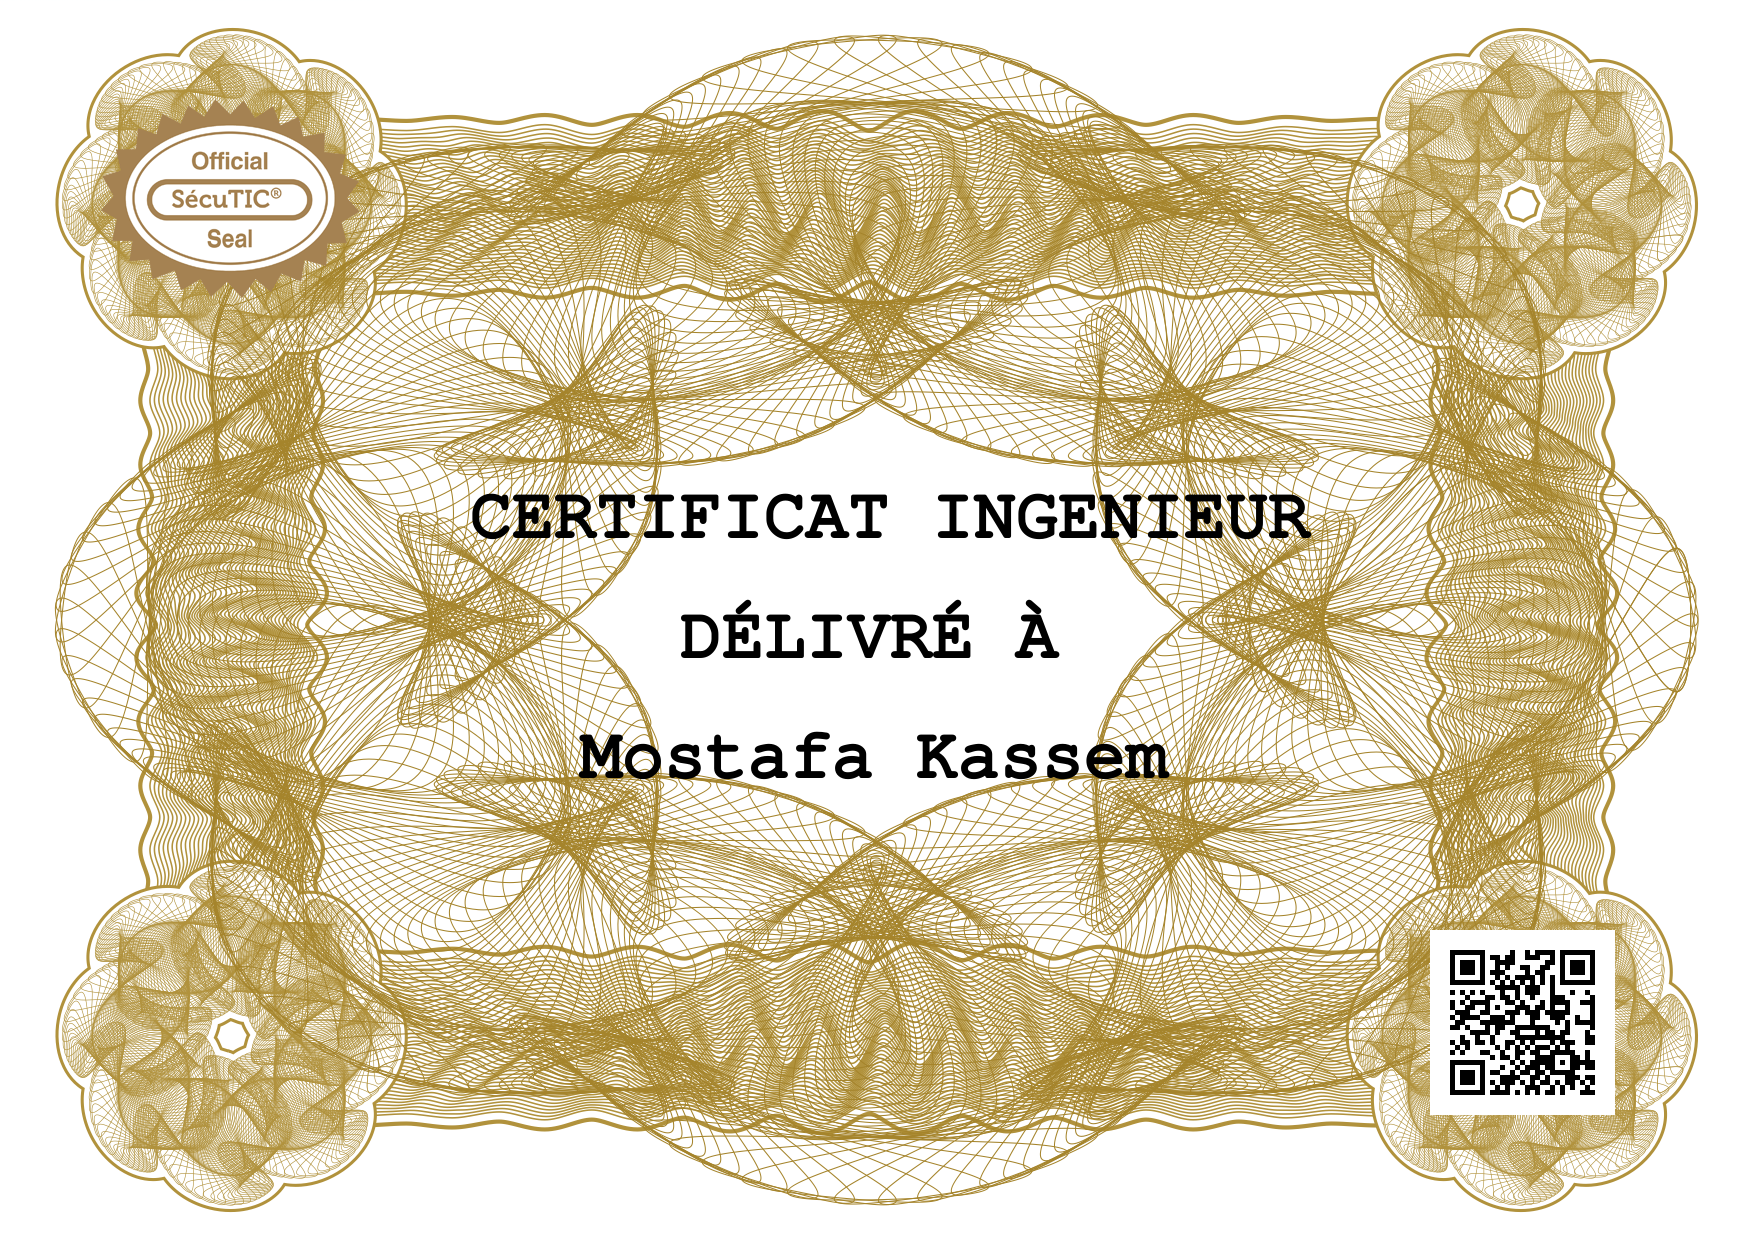
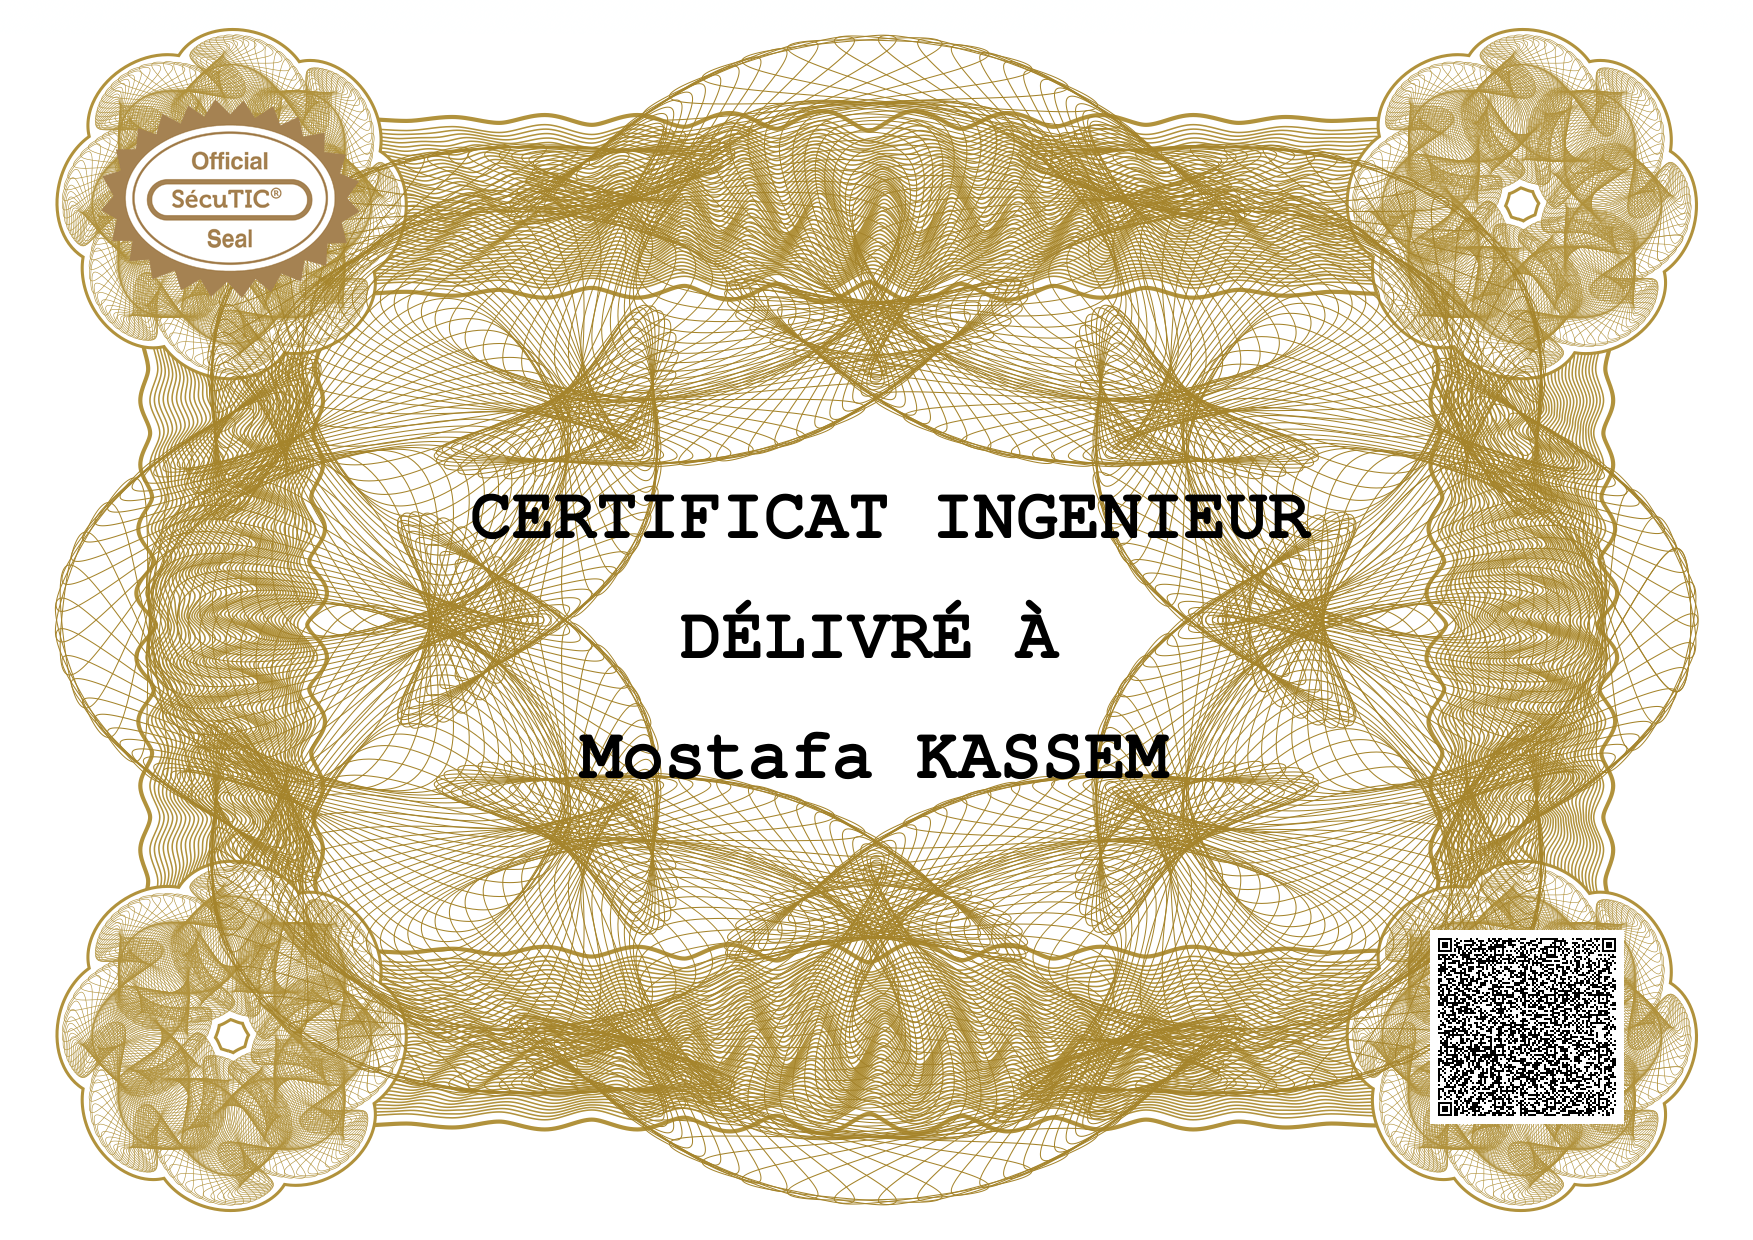
++

Changed region(s): [[0.8009, 0.7355, 0.9241, 0.9194], [0.5545, 0.5823, 0.6777, 0.6435]]

diff --git a/main.py b/main.py
@@ -92,7 +92,7 @@ def decodeMessage(message_retrouve):
 def getQRcode():
     # ToDo correct error libpng warning: iCCP: known incorrect sRGB profile
     img = cv2.imread("diplome.png")
-    crop_img = img[940:1105, 1430:1600]
+    crop_img = img[930:1125, 1430:1620]
     cv2.imwrite("qrcode2.png", crop_img)
     img = cv2.imread("qrcode2.png")
     det = cv2.QRCodeDetector()
@@ -182,6 +182,7 @@ def verifAttestation():
     message_retrouve = recuperer(Image.open("diplome.png"), 7392)
     listStega = decodeMessage(message_retrouve)
     listStega[1] = listStega[1].replace('0', '')
+    listStega[1] = listStega[1].replace(' ', '')
     print("donné de l'image: " +
           listStega[0] + " || " + listStega[1] + " || " + "listStega[2] ")
     val = getQRcode()
@@ -198,13 +199,28 @@ def verifAttestation():
     with open('rep.txt') as f:
         first_line = f.readline()
         first_line = first_line.strip()
-    if 'OK' in first_line:
+        
+    if listStega[0] == listQrcode[0]:
         TEST1 = True
-        print("okok")
+        print("okok1")
     else:
         TEST1 = False
-
-    return 1
+        
+    if listStega[1] == listQrcode[1]:
+        TEST2 = True
+        print("okok2")
+    else:
+        TEST2 = False        
+            
+    if 'OK' in first_line:
+        TEST3 = True
+        print("okok3")
+    else:
+        TEST3 = False   
+    if (TEST1 == True & TEST2 == True & TEST3 == True ): 
+        return 1
+    else:
+        return 2
 
 
 creerAttestation()
